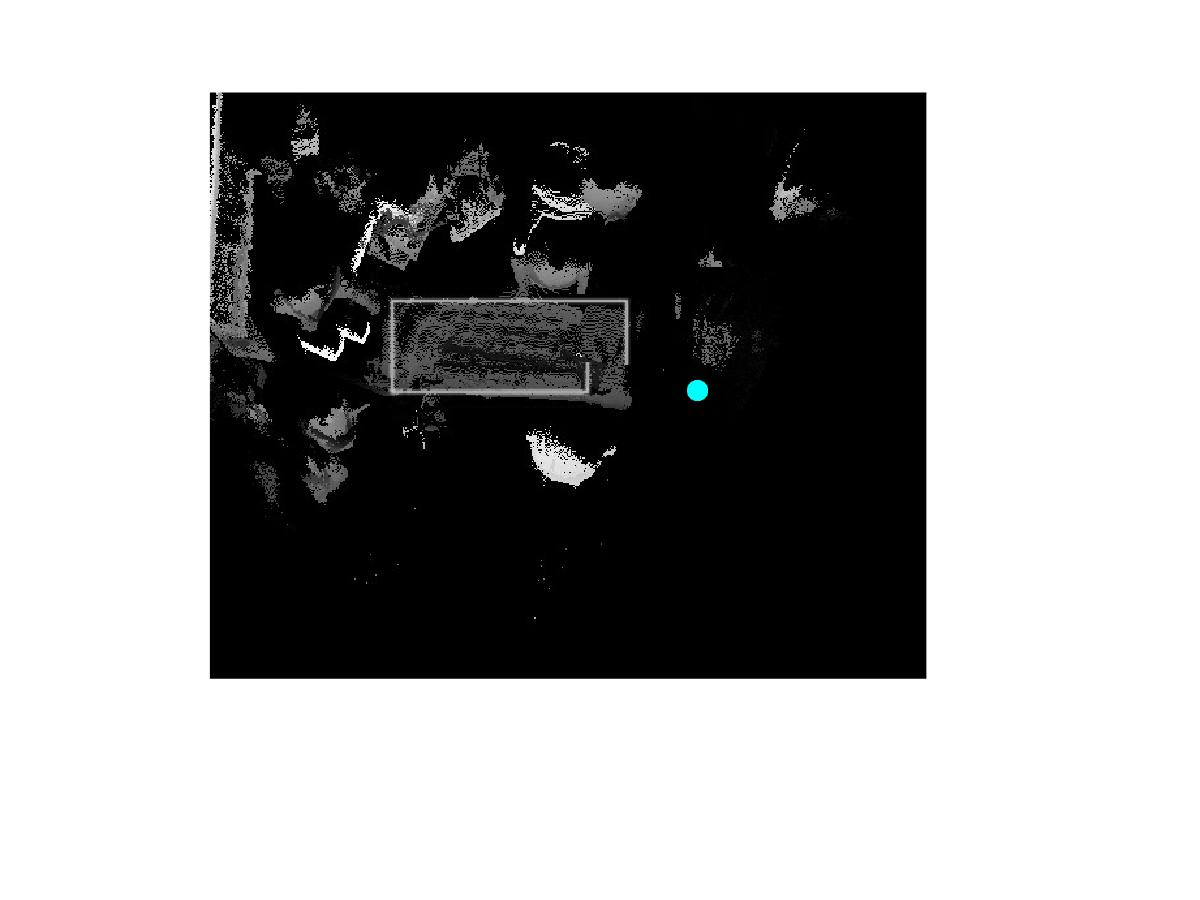
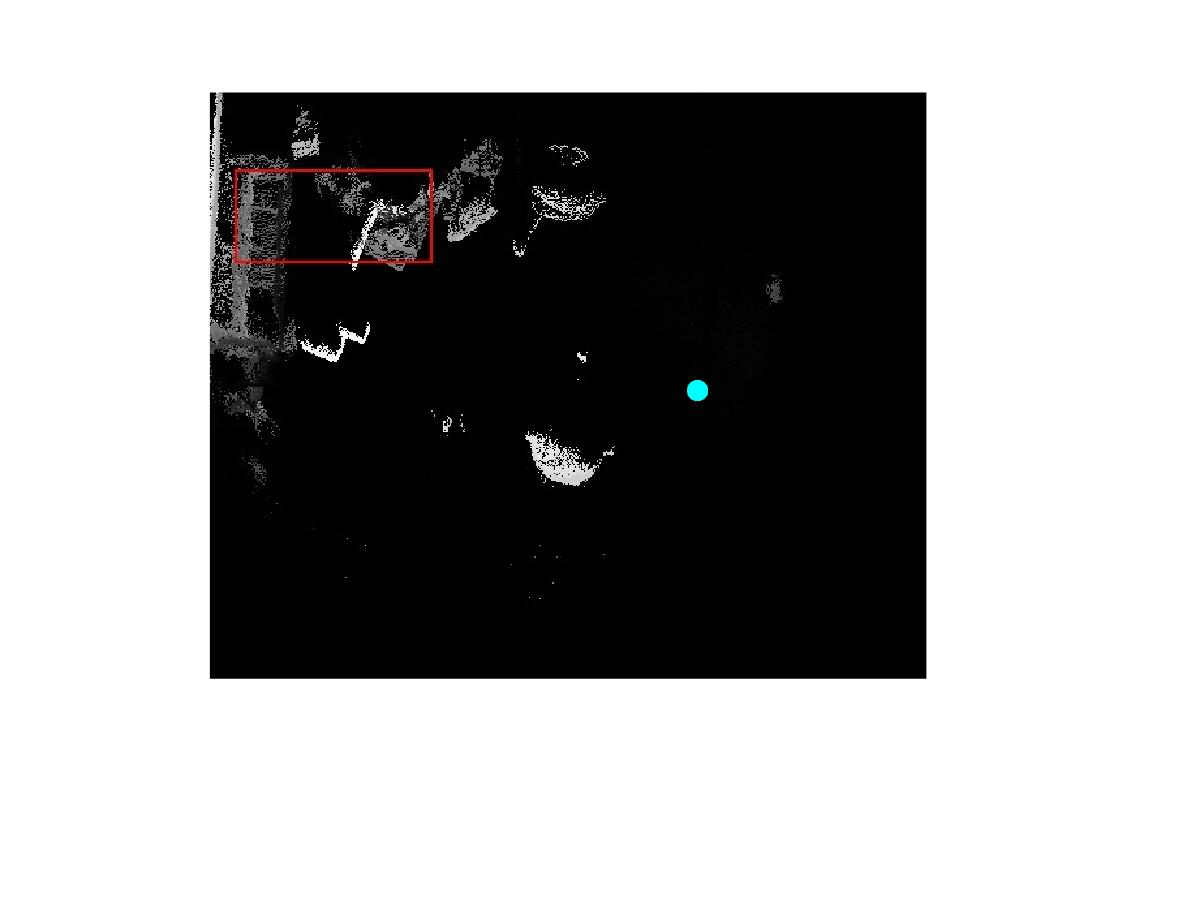
Update the dynamic background

diff --git a/People Tracking/People_Flow_Plot_with_Dynamic_Background.m b/People Tracking/People_Flow_Plot_with_Dynamic_Background.m
@@ -8,8 +8,8 @@ close all
 clc
 
 %% Load file and establish timeline
-dirctory='C:\Users\Xinyu Li\Google Drive\Data\Lab Test\';
-file='1-6-2016_16-48-09.txt';
+dirctory='C:\Users\Xinyu Li\Google Drive\Data\';
+file='1-5-2016_17-39-08.txt';
 filename=strcat(dirctory,file);
 fprintf('Now working on file: %s \n',filename);
 
@@ -28,7 +28,7 @@ timeInSecond=timeInSecond+1;
 uniqueID=unique(peopleID);
 
 % load background directory
-bgImages=dir('C:\Users\Xinyu Li\Google Drive\Data\Lab Test\heightview_1-6-2016_16-48-09\*.png');
+bgImages=dir('C:\Users\Xinyu Li\Google Drive\Data\heightview_1-5-2016_17-39-08\*.png');
 % calculate the first time for background
 bgStartTime=getBGStartTime(bgImages);
 timeDiff=bgStartTime-positionStartTime;
@@ -71,27 +71,27 @@ end
 
 count=1;
 % load('Background.mat');
-tmpBG=imread(strcat('C:\Users\Xinyu Li\Google Drive\Data\Lab Test\heightview_1-6-2016_16-48-09\',bgImages(count).name));
+tmpBG=imread(strcat('C:\Users\Xinyu Li\Google Drive\Data\heightview_1-5-2016_17-39-08\',bgImages(count).name));
 tmpClearBG=flipud(fliplr(tmpBG));
-clearBG=tmpClearBG(1:450,251:800);
+clearBG=tmpClearBG(1:450,251:800,:);
 for t=1:timeMax
 
-   if (t-updateCoefficient==56) 
+   if (t-updateCoefficient==10) 
        count=count+1;
        if (count>length(bgImages))
            break;
        end
        
        updateCoefficient=t;
-       tmpBG=imread(strcat('C:\Users\Xinyu Li\Google Drive\Data\Lab Test\heightview_1-6-2016_16-48-09\',bgImages(count).name));
+       tmpBG=imread(strcat('C:\Users\Xinyu Li\Google Drive\Data\heightview_1-5-2016_17-39-08\',bgImages(count).name));
        figureToPlot=figure(1);
        BG=flipud(fliplr(tmpBG));
-       imshow(BG(1:450,251:800));
+       imshow(BG(1:450,251:800,:));
        hold on
    else
        BG=flipud(fliplr(tmpBG));
        figureToPlot=figure(1);
-       imshow(BG(1:450,251:800));
+       imshow(BG(1:450,251:800,:));
        hold on
    end
    
